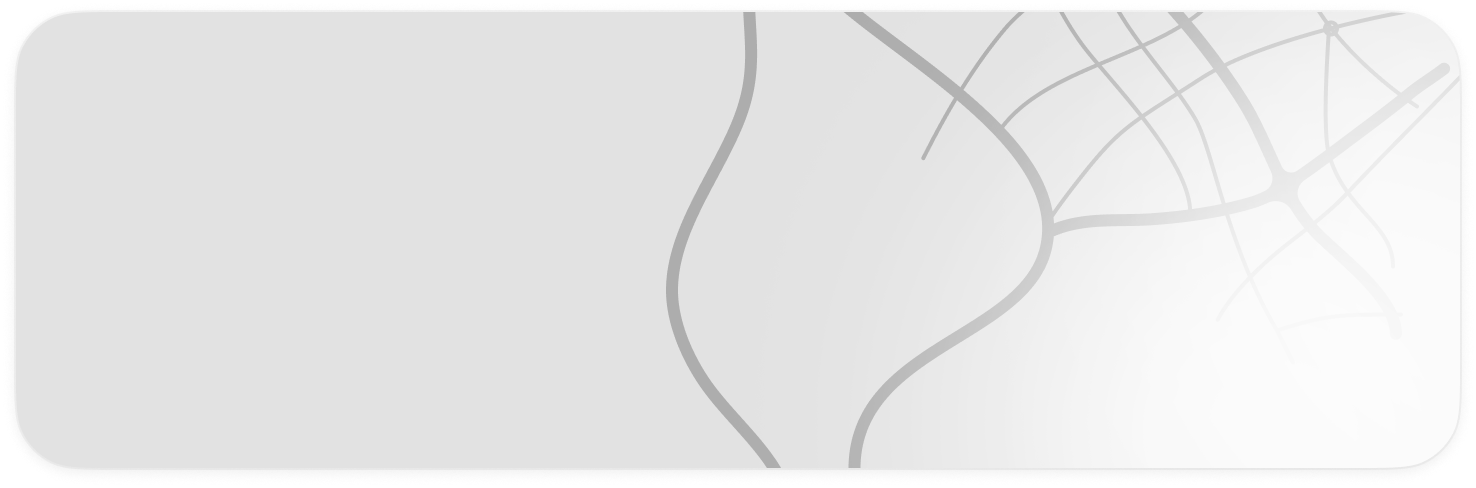
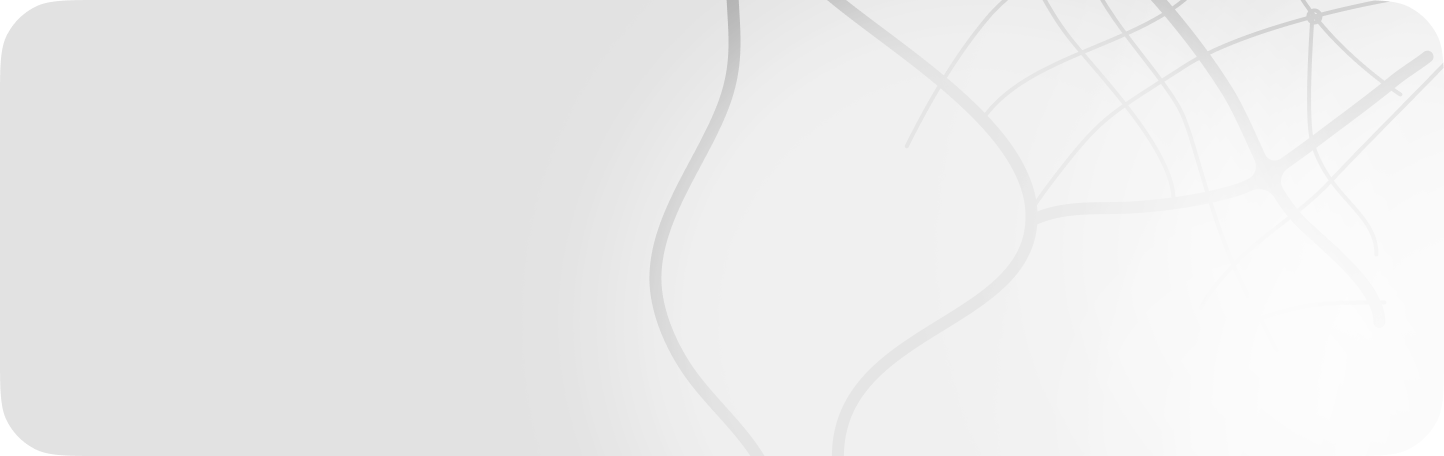
fix: fix dashboard

diff --git a/mapness/lib/widgets/landing/drive_back_home_card.dart b/mapness/lib/widgets/landing/drive_back_home_card.dart
@@ -58,21 +58,17 @@ class _DriveBackHomeCardState extends ConsumerState<DriveBackHomeCard> with Auto
           height: 123,
           child: DecoratedBox(
             decoration: BoxDecoration(
-
-             //  color: context.colors.backgroundSurface5,
-              // borderRadius: BorderRadius.circular(RadiusBorder.xl),
-              // boxShadow: Shadows.s,
+              color: context.colors.backgroundSurface5,
+              borderRadius: BorderRadius.circular(RadiusBorder.xl),
+              boxShadow: Shadows.s,
               image: DecorationImage(
-
                 image: activeCityEvent.getDriveHomeBackground(isDark: isDark),
                 matchTextDirection: true,
-                fit: BoxFit.cover,
-                alignment: AlignmentDirectional.centerEnd,
+                fit: BoxFit.fill,
               ),
             ),
             child: Stack(
               children: [
-
                 if (showBlueCircles) ...[
                   ClipRRect(
                     borderRadius: BorderRadius.circular(RadiusBorder.xl),
@@ -145,7 +141,6 @@ class _DriveBackHomeCardState extends ConsumerState<DriveBackHomeCard> with Auto
   }
 
   Future<void> authAndOpenNavigator(WidgetRef ref, StackRouter router, String locationLabel, String homeLabel) async {
-
     /// Force update authProvider when the user was not authenticated to get relavant favorites.
     final isAuth = ref.read(authProvider).value != null;
     if (!isAuth) {

diff --git a/mapness/lib/widgets/landing/dashboard_contents/base_dashboard_content.dart b/mapness/lib/widgets/landing/dashboard_contents/base_dashboard_content.dart
@@ -59,6 +59,17 @@ class BaseDashboardContent extends ConsumerWidget {
         Column(
           children: [
             // 1. Feedback Banner (ساهم معنا)
+            Column(
+              children: [
+                StoriesWidget(
+                  titleWidget: Padding(
+                    padding: const EdgeInsets.only(bottom: Spacing.$3x),
+                    child: DashboardTitle(context.l10n.whatIsNewInBalady),
+                  ),
+                ),
+              ],
+            ),
+            const SizedBox(height: Spacing.$3x),
             SizedBox(
               width: double.infinity,
               child: FeedbackBannerCardV2(
@@ -80,18 +91,6 @@ class BaseDashboardContent extends ConsumerWidget {
                 subtitle: context.l10n.buildBaladyTogether,
                 imageSizeCalculator: themeConfig.imageSizeCalculator,
               ),
-            ),
-
-            const SizedBox(height: Spacing.$3x),
-            Column(
-              children: [
-                StoriesWidget(
-                  titleWidget: Padding(
-                    padding: const EdgeInsets.only(bottom: Spacing.$3x),
-                    child: DashboardTitle(context.l10n.whatIsNewInBalady),
-                  ),
-                ),
-              ],
             ),
 
             const SizedBox(height: Spacing.$6x),
